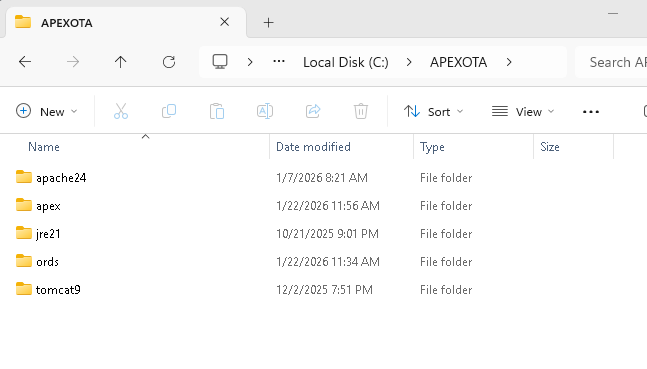
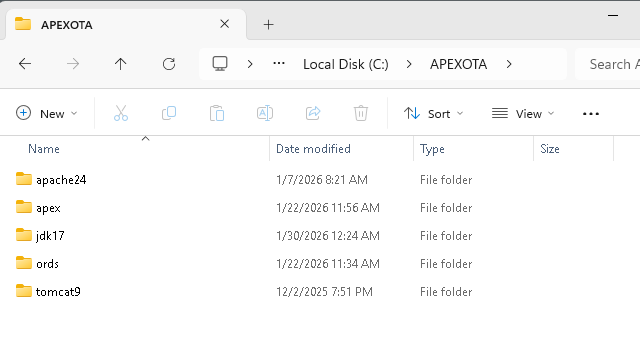
fix link

diff --git a/tech-doc/oracle-ebs-122-install/TOC.html b/tech-doc/oracle-ebs-122-install/TOC.html
@@ -617,6 +617,6 @@ header, .context-menu, .megamenu-content, footer{
 
 </head>
 <body class='typora-export os-windows'><div class='typora-export-content'>
-<div id='write'  class=''><h1 id='oracle-e-business-suite-12215-installation-on-windows-2026-edition'><span>Oracle E-Business Suite 12.2.15 Installation on Windows (</span><em><span>2026 Edition</span></em><span>)</span></h1><p>&nbsp;</p><h2 id='table-of-content'><span>Table of Content</span></h2><h4 id='preface'><a href='preface.html'><span>Preface</span></a></h4><h4 id='part-1-phases-and-preparation'><a href='part01.html'><span>Part 1. Phases and Preparation</span></a></h4><h4 id='part-2-ebs-1220-installation'><a href='part02.html'><span>Part 2. EBS 12.2.0 Installation</span></a></h4><h4 id='part-3-apply-latest-ad--tkx-patch'><a href='part03.html'><span>Part 3. Apply Latest AD &amp; TKX patch</span></a></h4><h4 id='part-4-ebs-1225-jws-and-jar-signing'><a href='part04.html'><span>Part 4. EBS 12.2.5, JWS and Jar Signing</span></a></h4><h4 id='part-5-windows-server-2012-ebs-12210'><a href='part05.html'><span>Part 5. Windows Server 2012, EBS 12.2.10</span></a></h4><h4 id='part-6-windows-server-2016-ebs-12215'><a href='part06.html'><span>Part 6. Windows Server 2016, EBS 12.2.15</span></a></h4><h4 id='part-7-windows-server-2019-database-19c'><a href='part07.html'><span>Part 7. Windows Server 2019, Database 19c</span></a></h4><h4 id='part-8-cloning'><a href='part8.html'><span>Part 8. Cloning</span></a></h4><h4 id='part-9-enabling-ssltls'><a href='part9.html'><span>Part 9. Enabling SSL/TLS</span></a></h4><h2 id='appendix'><span>Appendix</span></h2><h4 id='files-and-patches'><a href='appendix01.html'><span>Files and Patches</span></a></h4><h4 id='jar-signing-for-in-house-oracle-ebs-r122-instance'><a href='appendix02.html'><span>Jar Signing for In-House Oracle EBS R12.2 Instance</span></a></h4><h4 id='faq'><a href='FAQ.html'><span>FAQ</span></a></h4><hr /><h6 id='|-home-|-repositories-|-blog-|'><span>| </span><a href='https://symbolthree.github.io/'><span>Home</span></a><span> | </span><a href='https://github.com/symbolthree?tab=repositories'><span>Repositories</span></a><span> | </span><a href='https://symbolthree.github.io/Blog.html'><span>Blog</span></a><span> | </span></h6><blockquote><p><span>© 2026 by Christopher Ho. All Rights Reserved</span></p></blockquote><hr /><p>&nbsp;</p><p>&nbsp;</p></div></div>
+<div id='write'  class=''><h1 id='oracle-e-business-suite-12215-installation-on-windows-2026-edition'><span>Oracle E-Business Suite 12.2.15 Installation on Windows (</span><em><span>2026 Edition</span></em><span>)</span></h1><p>&nbsp;</p><h2 id='table-of-content'><span>Table of Content</span></h2><h4 id='preface'><a href='preface.html'><span>Preface</span></a></h4><h4 id='part-1-phases-and-preparation'><a href='part01.html'><span>Part 1. Phases and Preparation</span></a></h4><h4 id='part-2-ebs-1220-installation'><a href='part02.html'><span>Part 2. EBS 12.2.0 Installation</span></a></h4><h4 id='part-3-apply-latest-ad--tkx-patch'><a href='part03.html'><span>Part 3. Apply Latest AD &amp; TKX patch</span></a></h4><h4 id='part-4-ebs-1225-jws-and-jar-signing'><a href='part04.html'><span>Part 4. EBS 12.2.5, JWS and Jar Signing</span></a></h4><h4 id='part-5-windows-server-2012-ebs-12210'><a href='part05.html'><span>Part 5. Windows Server 2012, EBS 12.2.10</span></a></h4><h4 id='part-6-windows-server-2016-ebs-12215'><a href='part06.html'><span>Part 6. Windows Server 2016, EBS 12.2.15</span></a></h4><h4 id='part-7-windows-server-2019-database-19c'><a href='part07.html'><span>Part 7. Windows Server 2019, Database 19c</span></a></h4><h4 id='part-8-cloning'><a href='part08.html'><span>Part 8. Cloning</span></a></h4><h4 id='part-9-enabling-ssltlspart09html'><a href='part09.html'><span>Part 9. Enabling SSL/TLS</span></a></h4><h2 id='appendix'><span>Appendix</span></h2><h4 id='files-and-patches'><a href='appendix01.html'><span>Files and Patches</span></a></h4><h4 id='jar-signing-for-in-house-oracle-ebs-r122-instance'><a href='appendix02.html'><span>Jar Signing for In-House Oracle EBS R12.2 Instance</span></a></h4><h4 id='faq'><a href='FAQ.html'><span>FAQ</span></a></h4><hr /><h6 id='|-home-|-repositories-|-blog-|'><span>| </span><a href='https://symbolthree.github.io/'><span>Home</span></a><span> | </span><a href='https://github.com/symbolthree?tab=repositories'><span>Repositories</span></a><span> | </span><a href='https://symbolthree.github.io/Blog.html'><span>Blog</span></a><span> | </span></h6><blockquote><p><span>© 2026 by Christopher Ho. All Rights Reserved</span></p></blockquote><hr /><p>&nbsp;</p><p>&nbsp;</p></div></div>
 </body>
 </html>
